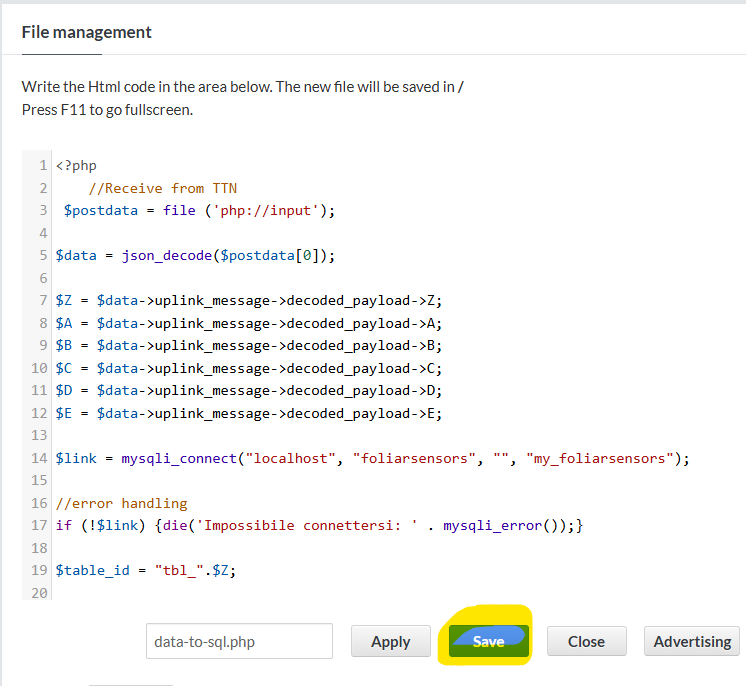
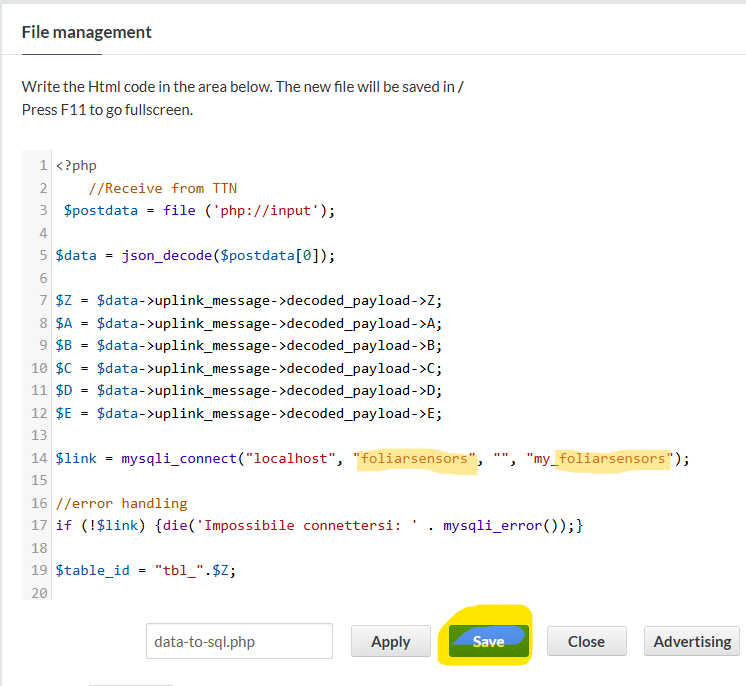
updates

Changed region(s): [[0.4625, 0.6429, 0.6475, 0.7041], [0.7399, 0.6429, 0.8941, 0.7041]]

diff --git a/docs/cloud.html b/docs/cloud.html
@@ -360,6 +360,7 @@ pre > code.sourceCode > span > a:first-child::before { text-decoration: underlin
 <span id="cb2-35"><a href="#cb2-35" aria-hidden="true" tabindex="-1"></a><span class="at">mysqli_close($link);</span></span>
 <span id="cb2-36"><a href="#cb2-36" aria-hidden="true" tabindex="-1"></a></span>
 <span id="cb2-37"><a href="#cb2-37" aria-hidden="true" tabindex="-1"></a><span class="kw">?</span><span class="ch">&gt;</span></span></code><button title="Copy to Clipboard" class="code-copy-button"><i class="bi"></i></button></pre></div>
+<p><strong>Make sure to replace the name of the database in this code with the name you have chosen for your database…</strong></p>
 <p><img src="images/clipboard-628929636.png" class="img-fluid" width="500"></p>
 <p><strong>Forwarding the data from TTN to altervista</strong></p>
 <p>This is achieved by specifying a path inside the TTN console which will channel the data to the above script. Go to the application you have already created and select integrations –&gt; webhooks –&gt; add webhook</p>
@@ -955,23 +956,25 @@ window.document.addEventListener("DOMContentLoaded", function (event) {
 <span id="cb3-107"><a href="#cb3-107" aria-hidden="true" tabindex="-1"></a><span class="kw">?</span><span class="ch">&gt;</span></span>
 <span id="cb3-108"><a href="#cb3-108" aria-hidden="true" tabindex="-1"></a><span class="in">```</span></span>
 <span id="cb3-109"><a href="#cb3-109" aria-hidden="true" tabindex="-1"></a></span>
-<span id="cb3-110"><a href="#cb3-110" aria-hidden="true" tabindex="-1"></a><span class="al">![](images/clipboard-628929636.png)</span>{width="500"}</span>
+<span id="cb3-110"><a href="#cb3-110" aria-hidden="true" tabindex="-1"></a>**Make sure to replace the name of the database in this code with the name you have chosen for your database...**</span>
 <span id="cb3-111"><a href="#cb3-111" aria-hidden="true" tabindex="-1"></a></span>
-<span id="cb3-112"><a href="#cb3-112" aria-hidden="true" tabindex="-1"></a>**Forwarding the data from TTN to altervista**</span>
+<span id="cb3-112"><a href="#cb3-112" aria-hidden="true" tabindex="-1"></a><span class="al">![](images/clipboard-628929636.png)</span>{width="500"}</span>
 <span id="cb3-113"><a href="#cb3-113" aria-hidden="true" tabindex="-1"></a></span>
-<span id="cb3-114"><a href="#cb3-114" aria-hidden="true" tabindex="-1"></a>This is achieved by specifying a path inside the TTN console which will channel the data to the above script. Go to the application you have already created and select integrations –<span class="sc">\&gt;</span> webhooks –<span class="sc">\&gt;</span> add webhook</span>
+<span id="cb3-114"><a href="#cb3-114" aria-hidden="true" tabindex="-1"></a>**Forwarding the data from TTN to altervista**</span>
 <span id="cb3-115"><a href="#cb3-115" aria-hidden="true" tabindex="-1"></a></span>
-<span id="cb3-116"><a href="#cb3-116" aria-hidden="true" tabindex="-1"></a><span class="al">![](images/clipboard-491052459.png)</span>{width="500"}</span>
+<span id="cb3-116"><a href="#cb3-116" aria-hidden="true" tabindex="-1"></a>This is achieved by specifying a path inside the TTN console which will channel the data to the above script. Go to the application you have already created and select integrations –<span class="sc">\&gt;</span> webhooks –<span class="sc">\&gt;</span> add webhook</span>
 <span id="cb3-117"><a href="#cb3-117" aria-hidden="true" tabindex="-1"></a></span>
-<span id="cb3-118"><a href="#cb3-118" aria-hidden="true" tabindex="-1"></a>next, choose *custom webhook:*</span>
+<span id="cb3-118"><a href="#cb3-118" aria-hidden="true" tabindex="-1"></a><span class="al">![](images/clipboard-491052459.png)</span>{width="500"}</span>
 <span id="cb3-119"><a href="#cb3-119" aria-hidden="true" tabindex="-1"></a></span>
-<span id="cb3-120"><a href="#cb3-120" aria-hidden="true" tabindex="-1"></a><span class="al">![](images/clipboard-293471513.png)</span>{width="500"}</span>
+<span id="cb3-120"><a href="#cb3-120" aria-hidden="true" tabindex="-1"></a>next, choose *custom webhook:*</span>
 <span id="cb3-121"><a href="#cb3-121" aria-hidden="true" tabindex="-1"></a></span>
-<span id="cb3-122"><a href="#cb3-122" aria-hidden="true" tabindex="-1"></a>give the webhook a name and insert the address of your altervista website and then insert the name of the php-script which will later handle the the flow of the data into your database. At the bottom of the page, hit *add webhook.*</span>
+<span id="cb3-122"><a href="#cb3-122" aria-hidden="true" tabindex="-1"></a><span class="al">![](images/clipboard-293471513.png)</span>{width="500"}</span>
 <span id="cb3-123"><a href="#cb3-123" aria-hidden="true" tabindex="-1"></a></span>
-<span id="cb3-124"><a href="#cb3-124" aria-hidden="true" tabindex="-1"></a><span class="al">![](images/clipboard-3063240609.png)</span>{width="500"}</span>
+<span id="cb3-124"><a href="#cb3-124" aria-hidden="true" tabindex="-1"></a>give the webhook a name and insert the address of your altervista website and then insert the name of the php-script which will later handle the the flow of the data into your database. At the bottom of the page, hit *add webhook.*</span>
 <span id="cb3-125"><a href="#cb3-125" aria-hidden="true" tabindex="-1"></a></span>
-<span id="cb3-126"><a href="#cb3-126" aria-hidden="true" tabindex="-1"></a>Now we should have everything in place for our dataflow to start...</span></code><button title="Copy to Clipboard" class="code-copy-button" data-in-quarto-modal=""><i class="bi"></i></button></pre></div>
+<span id="cb3-126"><a href="#cb3-126" aria-hidden="true" tabindex="-1"></a><span class="al">![](images/clipboard-3063240609.png)</span>{width="500"}</span>
+<span id="cb3-127"><a href="#cb3-127" aria-hidden="true" tabindex="-1"></a></span>
+<span id="cb3-128"><a href="#cb3-128" aria-hidden="true" tabindex="-1"></a>Now we should have everything in place for our dataflow to start...</span></code><button title="Copy to Clipboard" class="code-copy-button" data-in-quarto-modal=""><i class="bi"></i></button></pre></div>
 </div></div></div></div></div>
 </div> <!-- /content -->
 
